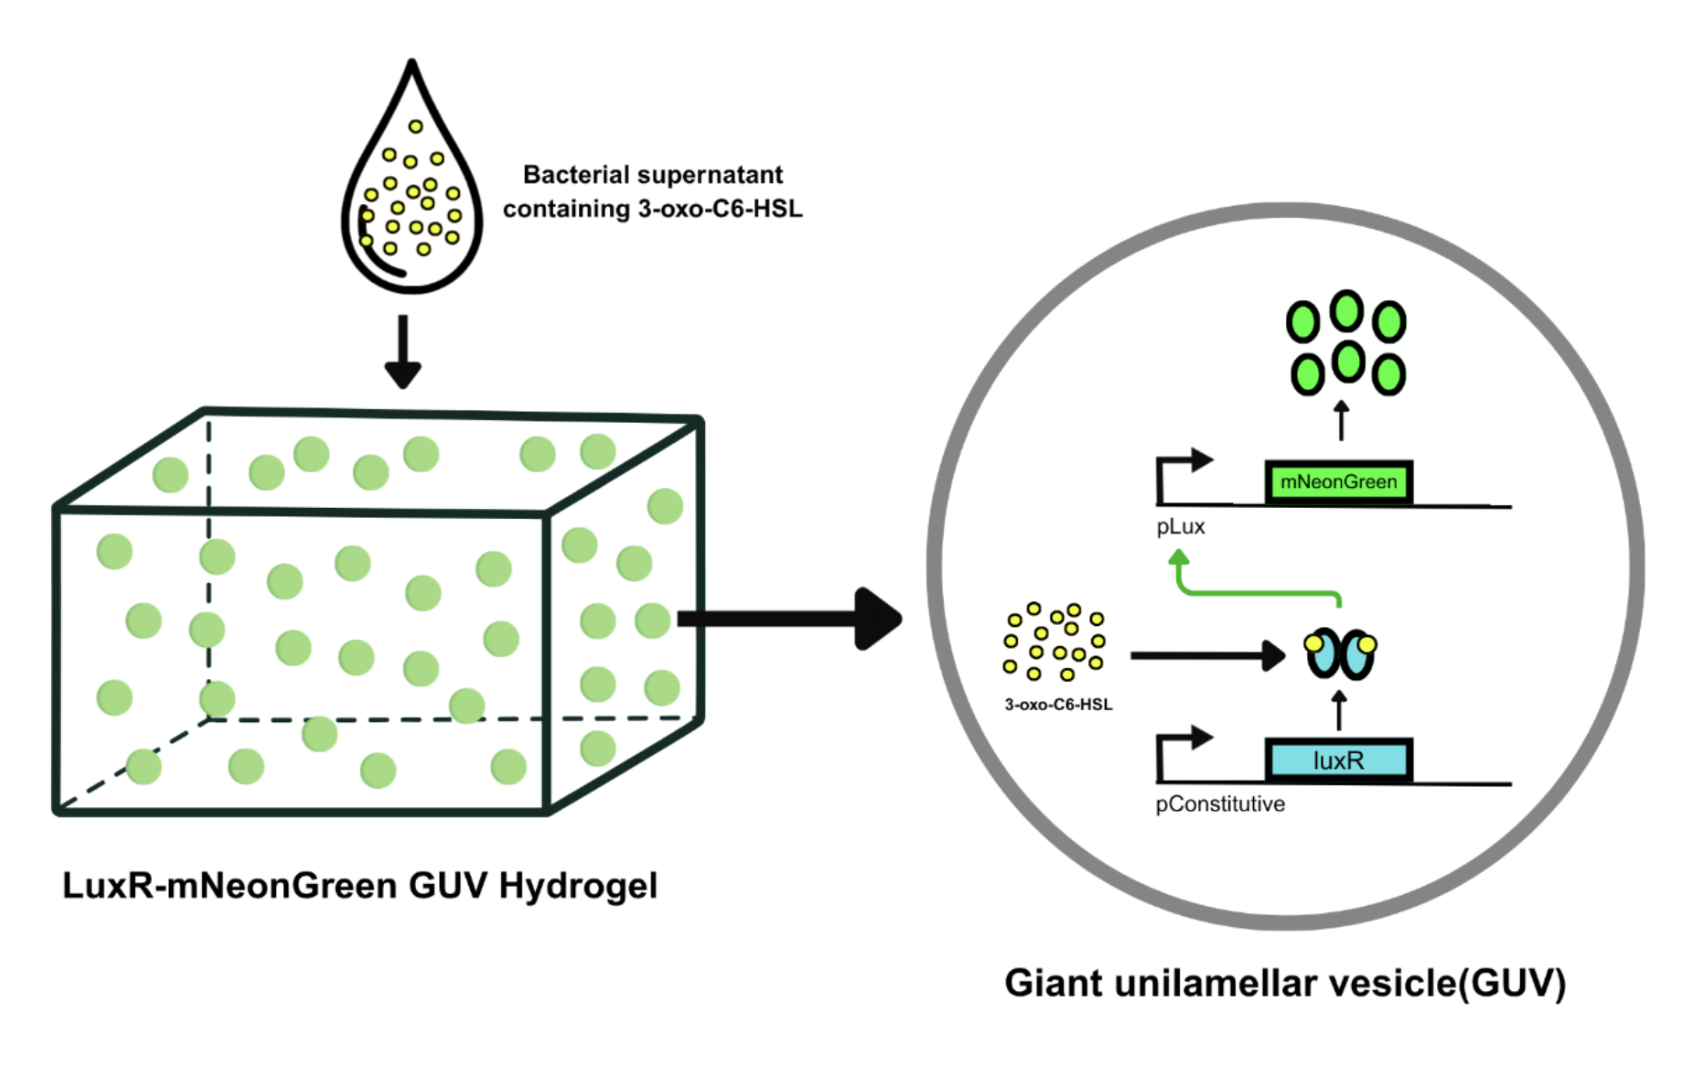
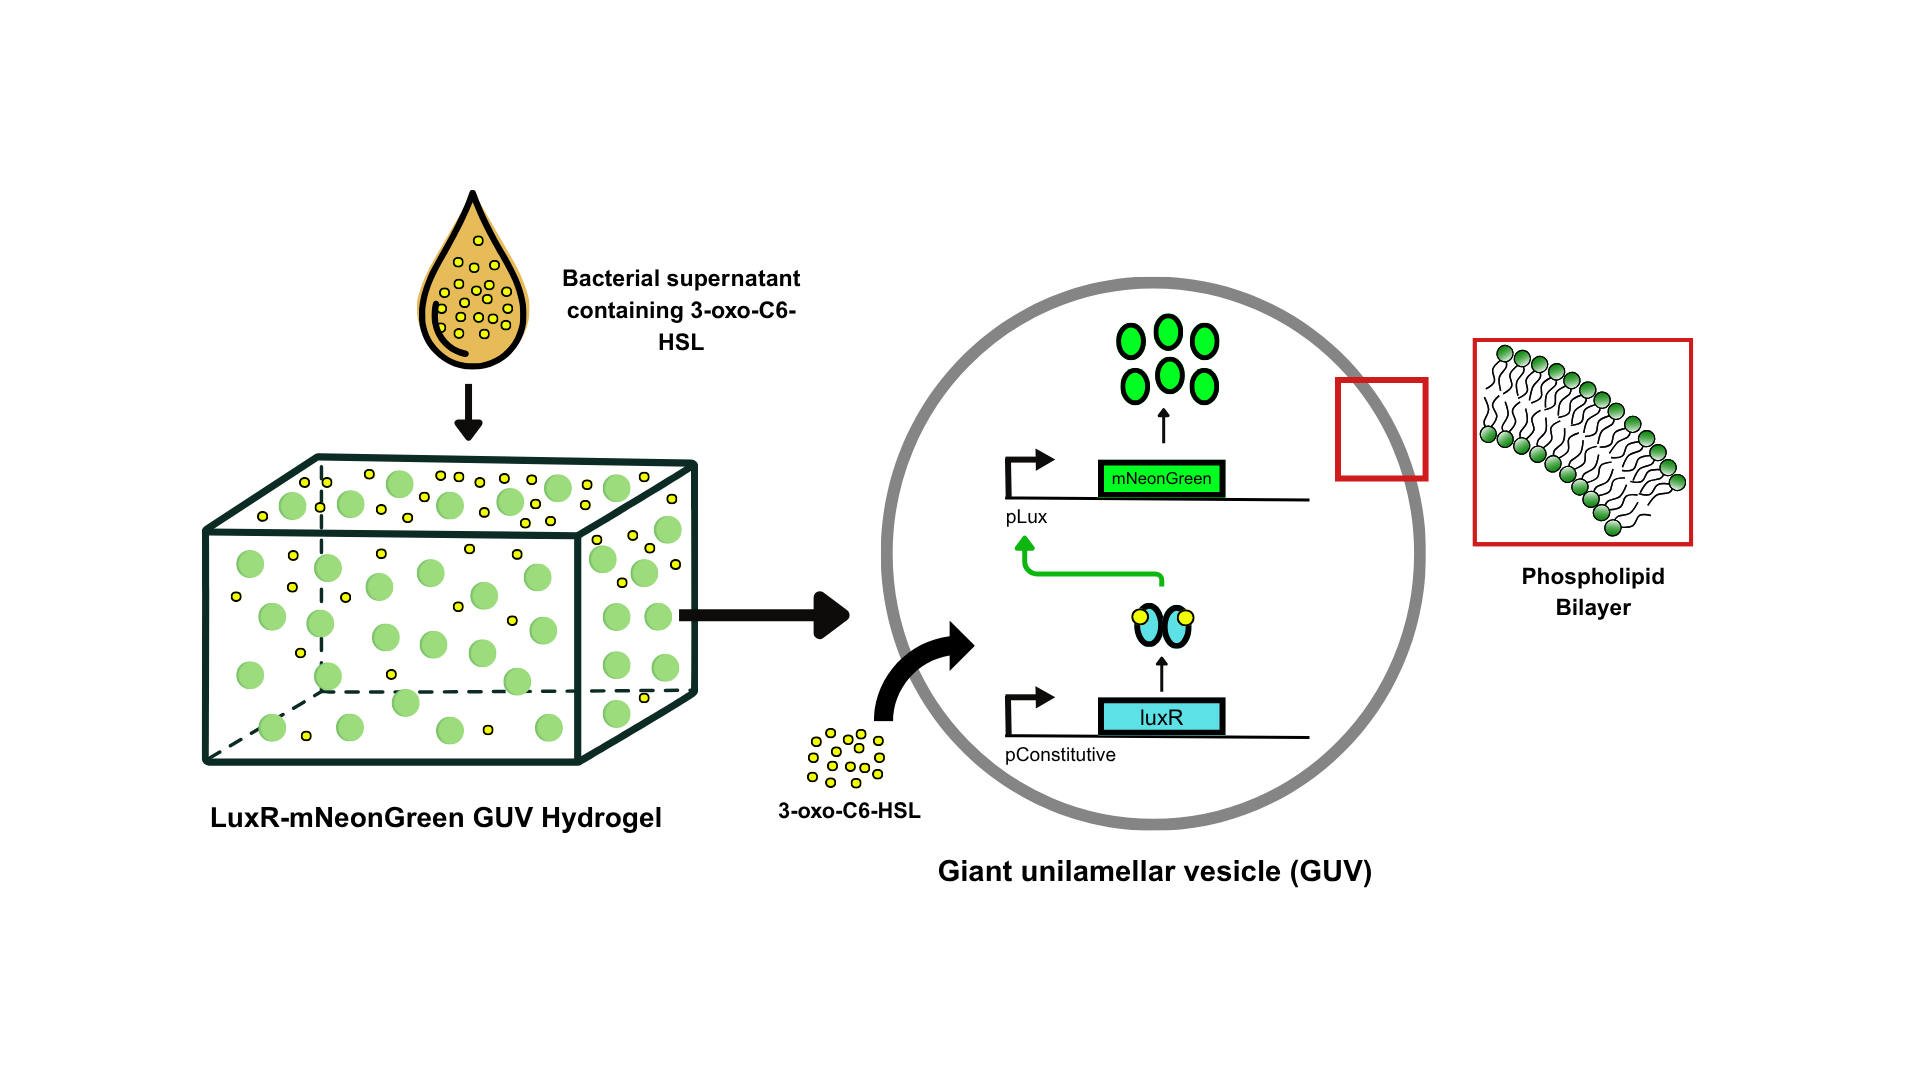
Set title, five-author list, and append Summary and What's next
Title: "Bacterial Sensing in Hydrogel Embedded Synthetic Cells using LuxR
Dependent Transcriptional Regulation", supplied by Anton 2026-10-12,
overwriting "Fluorescent Biofilm-Sensing GUV Hydrogel" (taken from the Doc
on 2026-10-11, now stale). curvenote.yml records both in its history
comment.

Authors: Julia Purrinos de Oliveira, Niall McIntyre, Manuel Bibrowski,
Charlie Newell, and Jonah McDonald, replacing the two-author list from
2026-10-05. A UCL affiliation was added alongside Imperial, read off each
author's email domain, since no Authors table exists in any source.

Added live Summary and What's next sections, text supplied by Anton, at
the literal end of main.md. Discussion points, Notes, the original What's
next, and Resources sit inside one HTML comment block Anton closed earlier
in this session, so these two new sections are the only live content after
Methods. Verified in a local preview that no heading renders twice.

Re-extracted general/overview.png from a fourth .docx export of the Doc:
the schematic gained a phospholipid bilayer inset since the last read.
Figure caption and provenance comment updated to describe it. Same file
path, replaced in place rather than treated as a new figure.

diff --git a/devnotes/devnote-jpo-nm-202609/main.md b/devnotes/devnote-jpo-nm-202609/main.md
@@ -82,17 +82,23 @@ schematic already placed below.
 :width: 90%
 Bacterial supernatant carrying 3-oxo-C6-HSL diffuses into the LuxR-mNeonGreen
 GUV hydrogel. Inside one GUV, constitutively expressed LuxR binds 3-oxo-C6-HSL
-and activates pLux, driving mNeonGreen expression.
+and activates pLux, driving mNeonGreen expression. The inset shows the
+phospholipid bilayer HSL crosses to enter the GUV.
 :::
 
-<!-- [`fig-overview-schematic`, file:`general/overview.png`, caption: (Bacterial supernatant carrying 3-oxo-C6-HSL diffuses into the LuxR-mNeonGreen GUV hydrogel. Inside one GUV, LuxR binds 3-oxo-C6-HSL and activates pLux-driven mNeonGreen expression.)] -->
+<!-- [`fig-overview-schematic`, file:`general/overview.png`, caption: (Bacterial supernatant carrying 3-oxo-C6-HSL diffuses into the LuxR-mNeonGreen GUV hydrogel. Inside one GUV, LuxR binds 3-oxo-C6-HSL and activates pLux-driven mNeonGreen expression. The inset shows the phospholipid bilayer HSL crosses to enter the GUV.)] -->
 
 <!-- A schematic, not a data figure: no notebook, no platemap, no data
 chain. Placed in general/ before the G stage, per
 devstudio-author-myst-content's schematic convention, and referenced by
 path rather than extracted from a Doc. Added 2026-10-11, kept as-is during
 the 2026-10-12 migration: the Doc's second [image] placeholder is a separate,
-still-open spot, not a replacement for this one. -->
+still-open spot, not a replacement for this one.
+
+Re-extracted 2026-10-12: the image at this position in the Doc's own .docx
+export changed again between reads, this time adding a phospholipid bilayer
+inset on the right. Same core diagram, same file path, replaced in place
+rather than treated as a new figure. -->
 
 <!-- :::{danger} Unresolved before publication
 :name: flags-blocking -->
@@ -104,8 +110,10 @@ notebook, and any build file for any result, so no composition table exists
 yet anywhere. -->
 
 <!-- Title and date were not sourced. Title resolved, 2026-10-11:
-"Fluorescent Biofilm-Sensing GUV Hydrogel", unchanged in the Doc as of
-2026-10-12. Date still open. -->
+"Fluorescent Biofilm-Sensing GUV Hydrogel". Changed again, 2026-10-12, by
+Anton directly, not from the Doc: "Bacterial Sensing in Hydrogel Embedded
+Synthetic Cells using LuxR Dependent Transcriptional Regulation". Date still
+open. -->
 
 <!-- :::{admonition}
 :name: gap-date
@@ -1077,3 +1085,35 @@ Log folders and data, one set per result, from the "Draft devnote" Doc:
 - Result 2, gel log: <https://drive.google.com/drive/folders/1j4vF36gjF_jpaGyI8fI-_uyUs-M6mC2d>
 - Result 2, twelve gel microscopy stores: listed inline under the gels subsection above, grouped by condition.
 - Result 3, microscopy store: <https://data.nucleus.engineering/microscopy/nucleus-bnext-01/nc_lysate_cyt_c_d_2026-10-08_20-00-25.520782.zarr>; no separate log folder link was given. -->
+
+<!--
+Summary and What's next, added 2026-10-12, supplied by Anton. Discussion
+points, Notes, the original What's next, and Resources above are already
+hidden in one HTML comment block Anton left earlier in this session, so these
+two new sections are the only live content after Methods; nothing renders
+twice.
+-->
+
+# Summary
+
+1. *E. coli* lysate-based cell-free protein expression with the
+   LuxR-mNeonGreen plasmid can successfully detect 3-oxo-C6-HSL in bulk.
+2. The same system can be successfully encapsulated in synthetic cells, which
+   is activated with 10 µM purified HSL in solution, visible using
+   fluorescence microscopy.
+3. Lysate-containing synthetic cells encapsulated within ULGA hydrogels can
+   sense 100 µM HSL added to the top of the gels.
+4. Bacterial supernatant collected from *E. coli* containing the LuxI
+   plasmid induced GFP expression in lysate GUVs containing the
+   LuxR-mNeonGreen plasmid.
+
+# What's next
+
+1. Test bacterial supernatant with lysate GUVs embedded in agarose hydrogel.
+2. Test orthogonal sensing with 3-oxo-C6-HSL and 3-oxo-C12-HSL quorum sensors
+   using LuxR and LasR to regulate transcriptional regulation.
+3. Investigate whether the LuxR system can be used for visible colorimetric
+   detection of bacterial contamination, through encapsulation of a
+   substrate and expression of an enzyme.
+4. Perform tests around the mechanical stability of GUVs embedded in
+   hydrogel.
